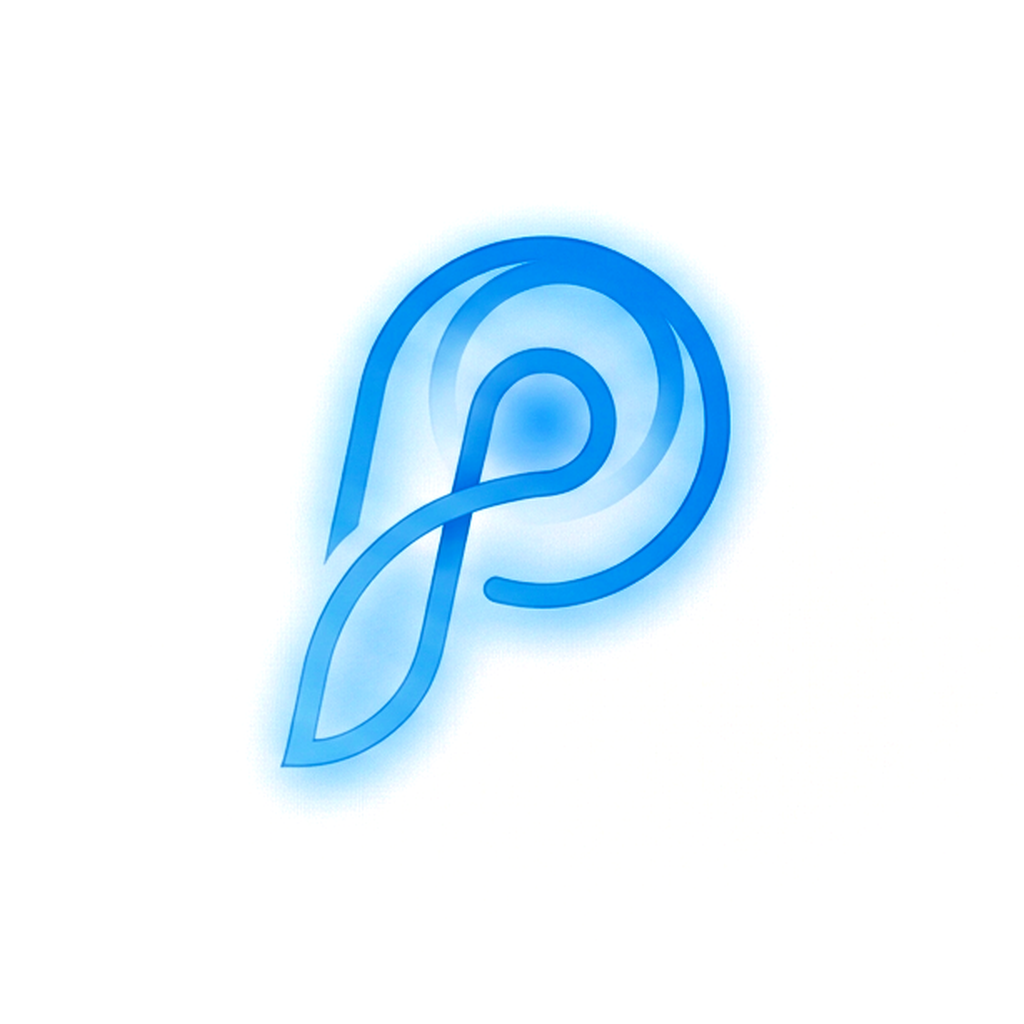
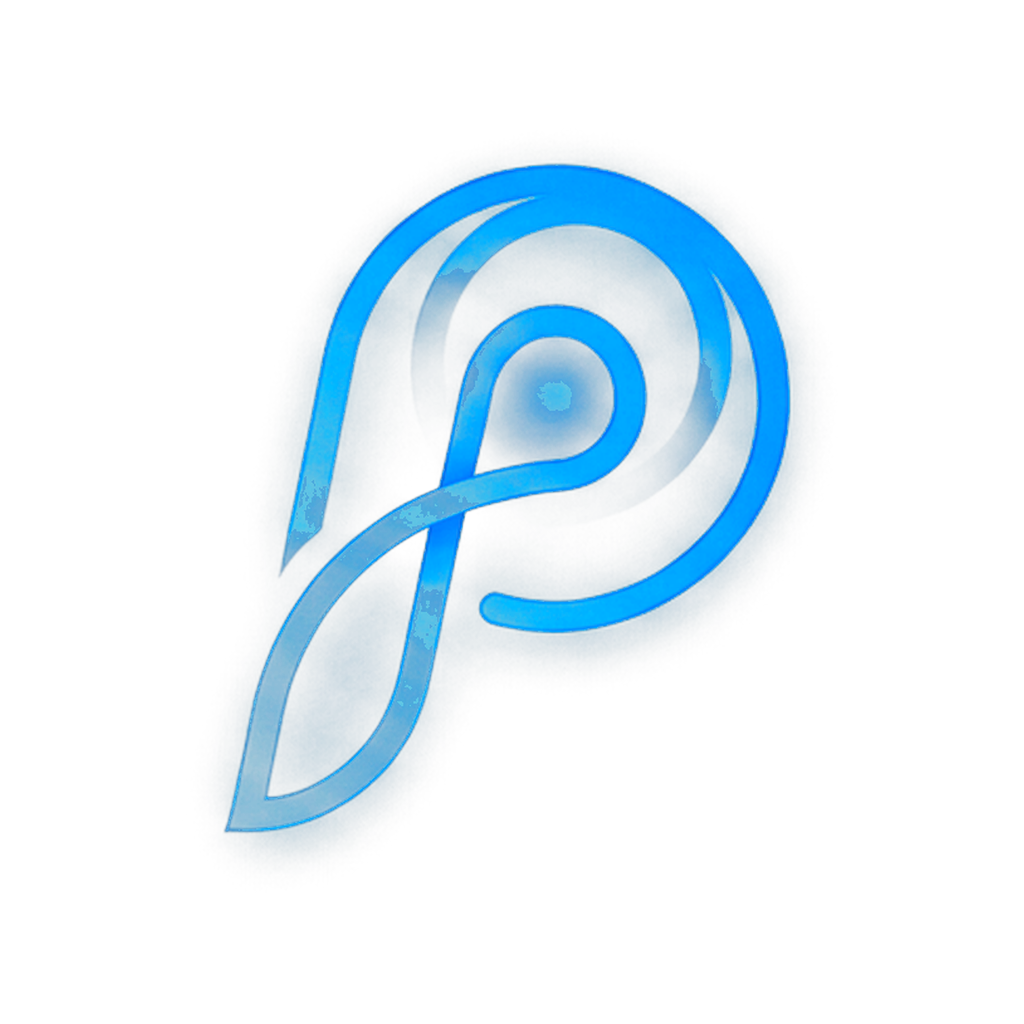
fix: 图片查看器手势体系重构修复、用户详情页短内容 Tab 回钳修复，应用图标微调；版本号迭代 1.0.1

Changed region(s): [[0.2188, 0.1562, 0.7812, 0.8438]]

diff --git a/CHANGELOG.md b/CHANGELOG.md
@@ -2,6 +2,22 @@
 
 本项目的所有版本更新日志将记录在本文件中
 
+## [1.0.1] - 2026-10-03
+
+### 问题修复
+
+- 图片查看器手势体系重构修复：
+    - 双指缩放不再被识别为单指滑动或翻页（1x 下双指横滑不再误触发翻页）
+    - 缩放全程跟手，焦点正确锚定捏合中心；捏合中同时拖动双指不再漂移
+    - 修复放大后拖动一下即手势失灵 / 识别错乱的问题，现已支持连续多次拖动
+    - 缩放 / 拖动结束后抬指不再误触工具栏闪烁；两指同时点按不再触发工具栏切换
+    - 既有行为保持不变：1x 横滑翻页、下拉关闭跟手、双击缩放、边界溢出翻页等
+- 用户详情页：修复插画 Tab 深滚动位置切换到详情 / 小说 Tab 时头部（头像）跳动的问题；短内容 Tab 底部留白避开手势条
+
+### 界面
+
+- 全新应用图标（由作者 March 设计），README 致谢同步更新
+
 ## [1.0.0] - 2026-09-29
 
 PixLume 首个公开版本。项目前身为 [Pixark](https://github.com/XHXYT/Pixark)（v2.0.x），在其代码基础上持续重构、修复并新增功能发展而来，详见 README 致谢。
